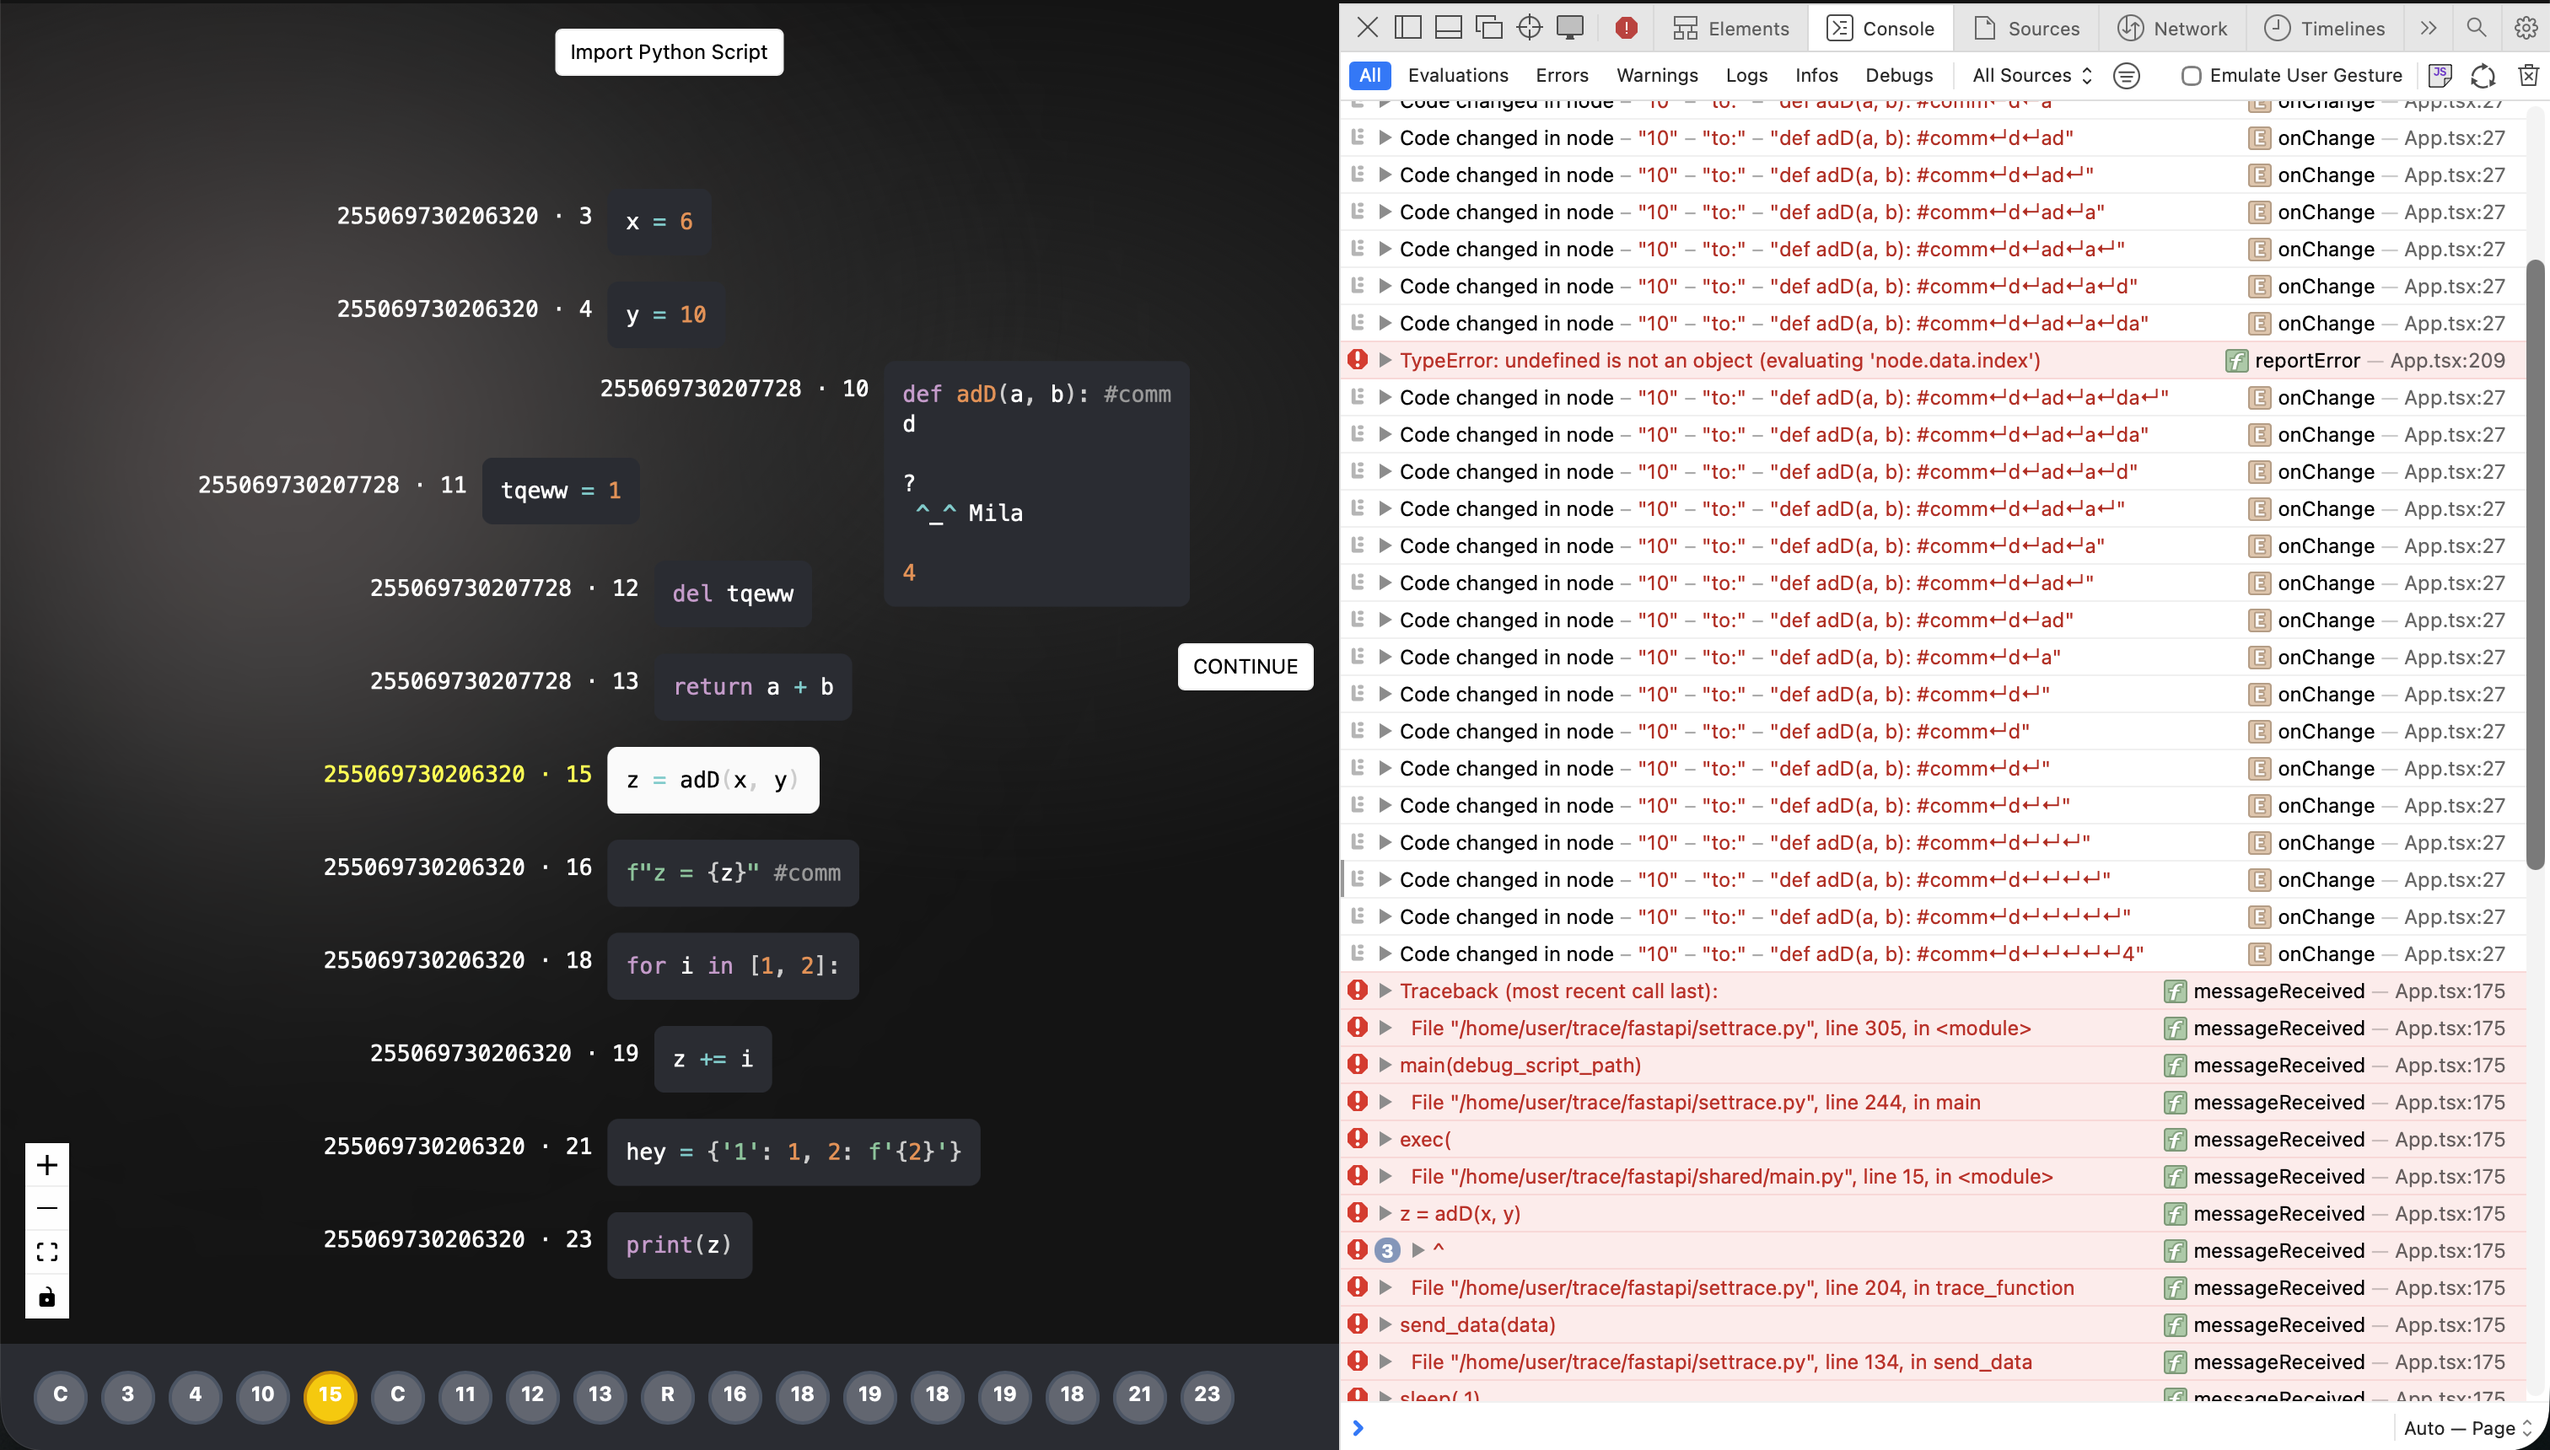
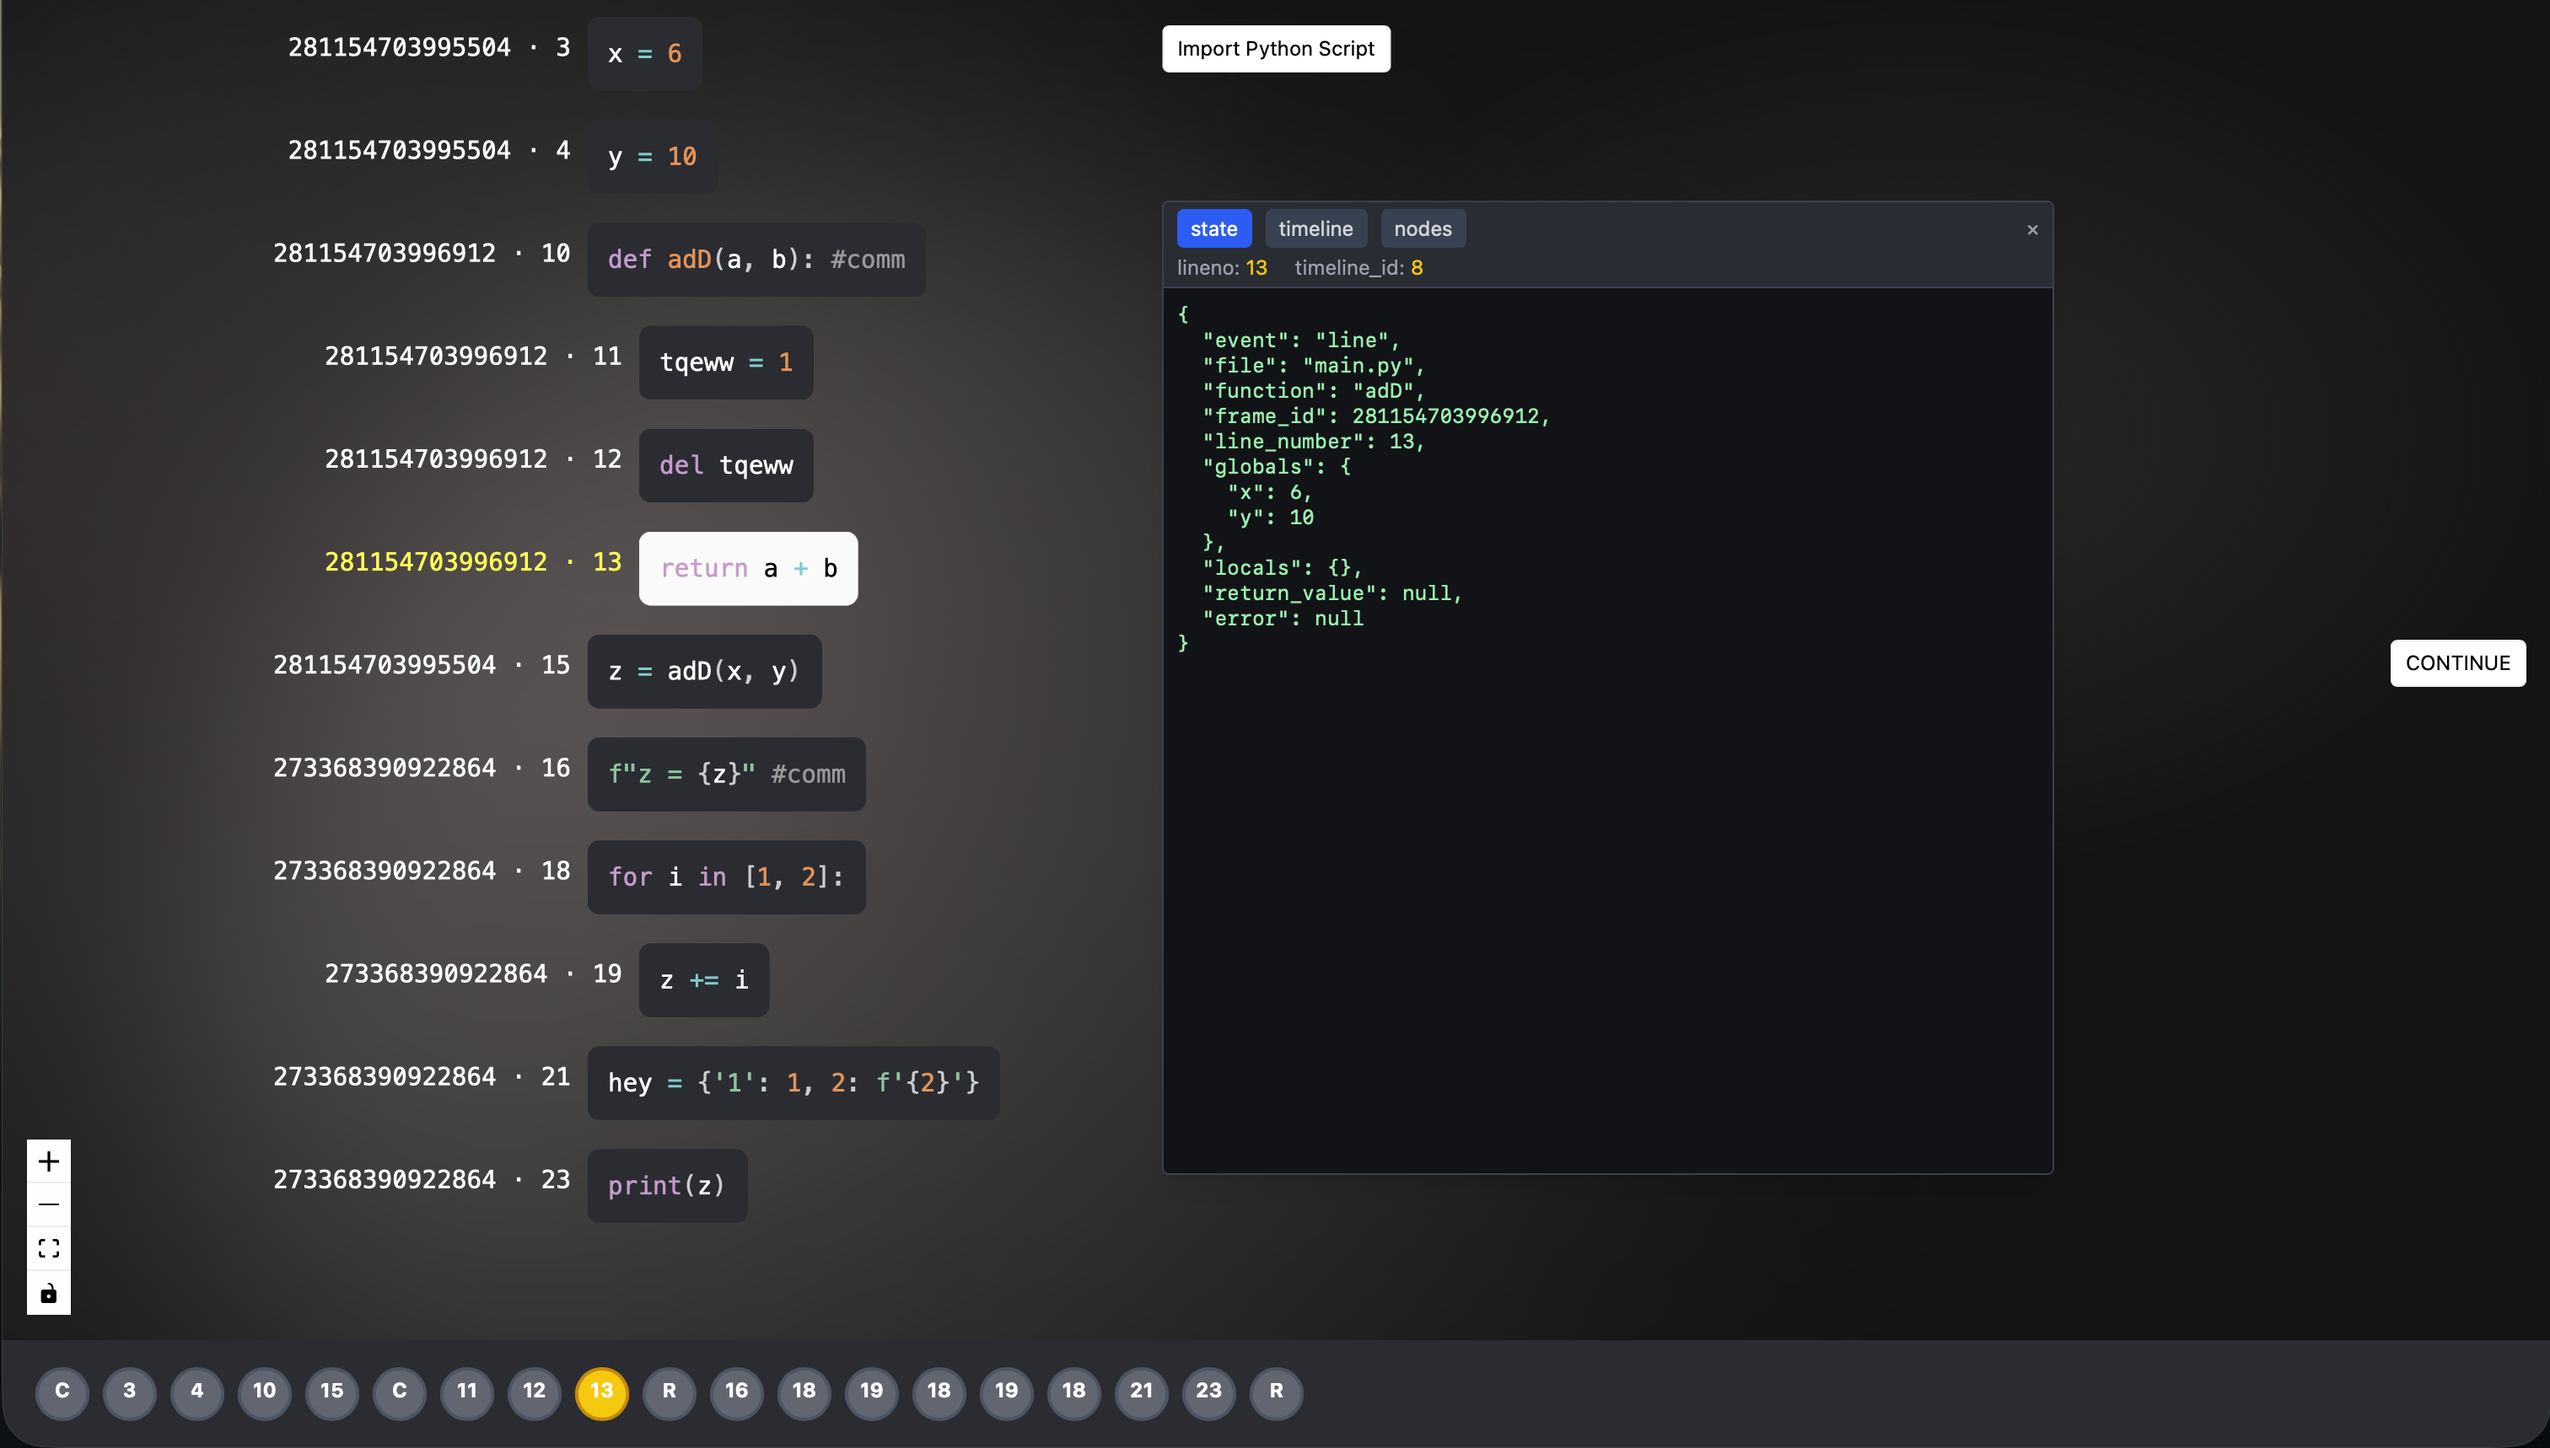
inspctor window

diff --git a/frontend/src/JsonInspectorPanel.tsx b/frontend/src/JsonInspectorPanel.tsx
@@ -1,26 +1,40 @@
-import React, { useMemo, useState } from 'react';
+import React, { useState } from 'react';
+import { Rnd } from 'react-rnd';
 import { useDebuggerState } from './DebuggerStateContext';
+
+type TerminalEntry = {
+    stream: 'stdout' | 'stderr';
+    text: string;
+    flushed: boolean;
+};
 
 interface JsonInspectorPanelProps {
     nodes: any[];
     timeline: any[];
     nodeIndex: string | null;
     timelineIndex: number | null;
+    terminal: TerminalEntry[];
 }
-
-/* ---------- component ---------- */
 
 export function JsonInspectorPanel({
     nodes,
     timeline,
     nodeIndex,
     timelineIndex,
+    terminal,
 }: JsonInspectorPanelProps) {
     const [visible, setVisible] = useState(false);
     const [activeTab, setActiveTab] =
-        useState<'state' | 'timeline' | 'nodes'>('state');
+        useState<'state' | 'timeline' | 'nodes' | 'terminal'>('state');
 
     const state = useDebuggerState();
+
+    const [rect, setRect] = useState({
+        x: window.innerWidth - 460,
+        y: window.innerHeight - 420,
+        width: 440,
+        height: 340,
+    });
 
     if (!visible) {
         return (
@@ -33,76 +47,99 @@ export function JsonInspectorPanel({
         );
     }
 
-    const tabContent = {
-        state,
-        nodes,
-        timeline,
-    }[activeTab];
-
     return (
-        <div className="absolute bottom-20 right-4 z-50 w-[440px] h-[340px] bg-[#1e1f24] border border-gray-700 rounded shadow-lg flex flex-col">
-            {/* Header */}
-            <div className="px-2 py-1 border-b border-gray-700 text-xs text-gray-300">
-                <div className="flex items-center justify-between">
-                    <div className="flex space-x-2">
+        <Rnd
+            size={{ width: rect.width, height: rect.height }}
+            position={{ x: rect.x, y: rect.y }}
+            onDragStop={(_, d) => setRect(r => ({ ...r, x: d.x, y: d.y }))}
+            onResizeStop={(_, __, ref, ___, pos) =>
+                setRect({
+                    width: ref.offsetWidth,
+                    height: ref.offsetHeight,
+                    x: pos.x,
+                    y: pos.y,
+                })
+            }
+            minWidth={300}
+            minHeight={200}
+            bounds="window"
+            dragHandleClassName="inspector-drag-handle"
+            className="z-50"
+        >
+            <div className="w-full h-full bg-[#1e1f24] border border-gray-700 rounded shadow-lg flex flex-col overflow-hidden">
+                {/* ───────── Header (drag handle) ───────── */}
+                <div className="inspector-drag-handle cursor-move px-2 py-1 border-b border-gray-700 text-xs text-gray-300 bg-[#2a2c34]">
+                    <div className="flex items-center justify-between">
+                        <div className="flex space-x-2">
+                            {['state', 'timeline', 'nodes', 'terminal'].map(tab => (
+                                <button
+                                    key={tab}
+                                    onClick={() => setActiveTab(tab as any)}
+                                    className={`px-2 py-1 rounded ${activeTab === tab
+                                            ? 'bg-blue-600 text-white'
+                                            : 'bg-gray-700'
+                                        }`}
+                                >
+                                    {tab}
+                                </button>
+                            ))}
+                        </div>
+
                         <button
-                            onClick={() => setActiveTab('state')}
-                            className={`px-2 py-1 rounded ${activeTab === 'state'
-                                    ? 'bg-blue-600 text-white'
-                                    : 'bg-gray-700'
-                                }`}
+                            onClick={() => setVisible(false)}
+                            className="text-gray-400 hover:text-white"
                         >
-                            State
-                        </button>
-                        <button
-                            onClick={() => setActiveTab('timeline')}
-                            className={`px-2 py-1 rounded ${activeTab === 'timeline'
-                                    ? 'bg-blue-600 text-white'
-                                    : 'bg-gray-700'
-                                }`}
-                        >
-                            Timeline
-                        </button>
-                        <button
-                            onClick={() => setActiveTab('nodes')}
-                            className={`px-2 py-1 rounded ${activeTab === 'nodes'
-                                    ? 'bg-blue-600 text-white'
-                                    : 'bg-gray-700'
-                                }`}
-                        >
-                            Nodes
+                            ✕
                         </button>
                     </div>
 
-                    <button
-                        onClick={() => setVisible(false)}
-                        className="text-gray-400 hover:text-white"
-                    >
-                        ✕
-                    </button>
+                    <div className="flex space-x-4 mt-1">
+                        <div>
+                            <span className="text-gray-400">lineno:</span>{' '}
+                            <span className="text-yellow-400">{nodeIndex ?? 'null'}</span>
+                        </div>
+                        <div>
+                            <span className="text-gray-400">timeline_id:</span>{' '}
+                            <span className="text-yellow-400">
+                                {timelineIndex ?? 'null'}
+                            </span>
+                        </div>
+                    </div>
                 </div>
 
-                {/* Index Info */}
-                <div className="flex space-x-4 mt-1">
-                    <div>
-                        <span className="text-gray-400">lineno:</span>{' '}
-                        <span className="text-yellow-400">
-                            {nodeIndex ?? 'null'}
-                        </span>
-                    </div>
-                    <div>
-                        <span className="text-gray-400">timeline_id:</span>{' '}
-                        <span className="text-yellow-400">
-                            {timelineIndex ?? 'null'}
-                        </span>
-                    </div>
+                {/* ───────── Content ───────── */}
+                <div className="flex-1 overflow-auto p-2 text-xs font-mono bg-black/60 whitespace-pre-wrap">
+                    {activeTab === 'terminal' ? (
+                        terminal.length === 0 ? (
+                            <div className="text-gray-500">No output yet.</div>
+                        ) : (
+                            terminal.map((entry, i) => {
+                                let colorClass = 'text-gray-500';
+
+                                if (entry.flushed) {
+                                    colorClass =
+                                        entry.stream === 'stderr'
+                                            ? 'text-red-400'
+                                            : 'text-white';
+                                }
+
+                                return (
+                                    <pre
+                                        key={i}
+                                        className={`${colorClass} whitespace-pre-wrap`}
+                                    >
+                                        {entry.text}
+                                    </pre>
+                                );
+                            })
+                        )
+                    ) : (
+                        <pre className="text-green-300">
+                            {JSON.stringify({ state, nodes, timeline }[activeTab], null, 2)}
+                        </pre>
+                    )}
                 </div>
             </div>
-
-            {/* Content */}
-            <pre className="flex-1 overflow-auto p-2 text-xs text-green-300 bg-black/40">
-                {JSON.stringify(tabContent, null, 2)}
-            </pre>
-        </div>
+        </Rnd>
     );
 }

diff --git a/frontend/src/App.tsx b/frontend/src/App.tsx
@@ -97,6 +97,12 @@ function buildCurrentScope(timeline: any[], timelineIndex: number | null) {
   return scope;
 }
 
+type TerminalEntry = {
+  stream: 'stdout' | 'stderr';
+  text: string;
+  flushed: boolean;
+};
+
 export default function App() {
   const inputMethod = ['touch', 'mouse'][0];
 
@@ -109,6 +115,8 @@ export default function App() {
   const [waitingForResponse, setWaitingForResponse] = useState(false);
 
   const timelineRefs = useRef<(HTMLDivElement | null)[]>([]);
+
+  const [terminalEntries, setTerminalEntries] = useState<TerminalEntry[]>([]);
 
   const debuggerState = useMemo(
     () => buildCurrentScope(timelineEntries, timelineIndex),
@@ -183,23 +191,58 @@ export default function App() {
       case 'event':
         handleEvent(message.data);
         break;
+
       case 'sync':
         handleSync(message.data);
         break;
+
       case 'stdout':
-      case 'stderr':
-        if (message.data.trim()) console[message.type === 'stderr' ? 'error' : 'debug'](message.data);
+      case 'stderr': {
+        const chunk = message.data;
+        if (!chunk) return;
+
+        setTerminalEntries(prev => {
+          const last = prev[prev.length - 1];
+
+          // If last entry is same stream and not flushed → append
+          if (last && last.stream === message.type && !last.flushed) {
+            return [
+              ...prev.slice(0, -1),
+              {
+                ...last,
+                text: last.text + chunk,
+              },
+            ];
+          }
+
+          // Otherwise start a new pending entry
+          return [
+            ...prev,
+            {
+              stream: message.type,
+              text: chunk,
+              flushed: false,
+            },
+          ];
+        });
+
         break;
-      case 'flush':
-        switch (message.data) {
-          case 'stdout':
-          case 'stderr':
-            // ...
-            break;
-          default:
-            console.warn('WS: Unknown flush data:', message.data);
-        }
+      }
+
+      case 'flush': {
+        const stream = message.data;
+        if (stream !== 'stdout' && stream !== 'stderr') return;
+
+        setTerminalEntries(prev =>
+          prev.map(entry =>
+            entry.stream === stream
+              ? { ...entry, flushed: true }
+              : entry
+          )
+        );
         break;
+      }
+
       default:
         console.warn('WS: Unknown message.type:', message.type);
     }
@@ -262,6 +305,7 @@ export default function App() {
               timeline={timelineEntries}
               nodeIndex={nodeIndex}
               timelineIndex={timelineIndex}
+              terminal={terminalEntries}
             />
           </div>
 
